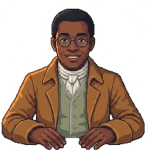
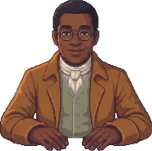
Cato gets a face, and a way to give everyone else one
Slices the returned sheet into the four expressions and wires them up. Three
things the sheet made necessary, kept in tools/slice-sheet.py so the next five
are one command:

Panels are found by looking for the gaps between them rather than dividing the
width by five — the returned panels are 802 to 853 wide, so an even division
would have cut through a shoulder. All five are then cropped with one shared
box, or the face would sit a few pixels higher in one mood than another and
the character would twitch every time the conversation turned.

Only the face is taken from each expression panel; the body always comes from
the neutral. Asked to change only a face, the generator redrew the coat, moved
the outline, and turned Cato's hair grey in the blink frame. Cutting a band
between the hairline and the collar — feathered at full resolution so the join
disappears in the downscale — takes the new brows, eyes and mouth and nothing
else. The grey hair simply never arrives.

The neutral is replaced by the sheet's own. Handed a template, the generator
draws a new figure rather than reproducing the old one, and the standalone
Cato differs from the sheet's by 16% of its pixels — keep it and his shoulders
change shape whenever his mood does.

Also preloads every face a character owns when they are first drawn. The
loader was lazy, so the first line that changed somebody's mood asked for an
image that had not begun downloading, and they flashed to the built-in figure
[…]

diff --git a/js/art.js b/js/art.js
@@ -1388,7 +1388,20 @@
     return out;
   }
 
+  /* Fetch every face a character owns the moment they are first drawn. The
+     loader is lazy, so without this the first line that changes their mood
+     asks for an image that hasn’t started downloading, and the character
+     flashes to the built-in figure for a frame or two while it arrives. */
+  var preloaded = {};
+  function preloadSprites(charId) {
+    if (!charId || preloaded[charId]) return;
+    preloaded[charId] = true;
+    var set = (global.SPRITES || {})[charId] || {};
+    Object.keys(set).forEach(function (k) { if (set[k]) getSprite(set[k]); });
+  }
+
   function drawPerson(cfg, exprName, f, charId) {
+    preloadSprites(charId);
     var m = motionOffsets(f, charId || 'anon', exprName);
 
     /* hand-made art wins, when there is any */

diff --git a/tools/slice-sheet.py b/tools/slice-sheet.py
@@ -1,0 +1,138 @@
+"""Slice a five-panel expression sheet into game-ready sprites.
+
+Three things matter, and none of them is obvious:
+
+  * Panels are found by looking for the empty columns between them, not by
+    dividing the width by five. Generators drift, and an even division puts a
+    slice line through somebody's shoulder.
+
+  * Every panel is cropped with the SAME box, worked out from the union of all
+    five. Cropping each to its own bounds looks tidier and is wrong: the face
+    would sit a few pixels higher in one mood than another and the character
+    would twitch every time the conversation turned.
+
+  * Only the FACE is taken from each expression panel. The body always comes
+    from the neutral. Asked to change a face, a generator will happily redraw
+    the coat, thicken the outline, or — as it did to Cato — turn a man's hair
+    grey in the blink frame. Cutting a band between the hairline and the collar
+    takes the new brows, eyes and mouth and nothing else, so the only thing
+    that can change is the only thing that should.
+
+The neutral is taken from the sheet as well, replacing any standalone one.
+That matters: a generator handed a template does not reproduce the original
+figure, it draws a new one, so the sheet's own neutral is the only body the
+other four panels agree with. Keep the old one and the character changes shape
+every time the conversation turns.
+
+Usage: slice.py <sheet.png> <char> <outdir> [x0 y0 x1 y1 as fractions]
+"""
+import sys, os
+from PIL import Image
+
+TARGET_H = 151
+NAMES = ['neutral', 'warm', 'worried', 'stern', 'blink']
+
+# The face band, as fractions of the trimmed figure. Default is tuned to Cato:
+# it starts below the hairline, stops above the collar, and stays inside the
+# edge of the head so both cuts land on flat skin rather than on an outline.
+BAND = (0.349, 0.152, 0.678, 0.384)
+
+
+def knockout(im, tol=26):
+    """Flood the white background in from the edges, leaving enclosed whites
+    (a linen cravat, a cap, the whites of eyes) alone."""
+    im = im.convert('RGBA')
+    w, h = im.size
+    px = im.load()
+    seen = bytearray(w * h)
+    stack = []
+    for x in range(w):
+        stack.append((x, 0)); stack.append((x, h - 1))
+    for y in range(h):
+        stack.append((0, y)); stack.append((w - 1, y))
+    while stack:
+        x, y = stack.pop()
+        if x < 0 or y < 0 or x >= w or y >= h: continue
+        i = y * w + x
+        if seen[i]: continue
+        r, g, b, _ = px[x, y]
+        if (255 - r) + (255 - g) + (255 - b) > tol * 3: continue
+        seen[i] = 1
+        px[x, y] = (0, 0, 0, 0)
+        stack.append((x + 1, y)); stack.append((x - 1, y))
+        stack.append((x, y + 1)); stack.append((x, y - 1))
+    return im
+
+
+def panels(im):
+    w, h = im.size
+    px = im.load()
+    cols = []
+    for x in range(w):
+        hit = False
+        for y in range(0, h, 3):
+            if px[x, y][3] > 24: hit = True; break
+        cols.append(hit)
+    runs, start = [], None
+    for x, on in enumerate(cols):
+        if on and start is None: start = x
+        elif not on and start is not None:
+            if x - start > w // 40: runs.append((start, x))
+            start = None
+    if start is not None: runs.append((start, w))
+    return runs
+
+
+def band_mask(size, feather=12):
+    """A hard cut across a cheek leaves a visible line. This ramps the join
+    over a few pixels — done at full resolution, so after the downscale to
+    151 tall the blend is under two pixels wide and reads as nothing at all."""
+    w, h = size
+    m = Image.new('L', size, 255)
+    px = m.load()
+    for x in range(w):
+        for y in range(h):
+            d = min(x, w - 1 - x, y, h - 1 - y)
+            if d < feather: px[x, y] = round(255 * d / feather)
+    return m
+
+
+def main(path, char, outdir, band=BAND):
+    im = knockout(Image.open(path))
+    runs = panels(im)
+    print('found %d panels: %s' % (len(runs), runs))
+    if len(runs) != 5:
+        print('!! expected 5 — stopping so nothing is written wrong'); return 1
+
+    boxes = []
+    for (x0, x1) in runs:
+        sub = im.crop((x0, 0, x1, im.size[1]))
+        boxes.append(sub.getchannel('A').getbbox())
+    L = min(b[0] for b in boxes); T = min(b[1] for b in boxes)
+    R = max(b[2] for b in boxes); Bm = max(b[3] for b in boxes)
+    print('shared crop box', (L, T, R, Bm))
+
+    cut = [im.crop((x0, 0, x1, im.size[1])).crop((L, T, R, Bm)) for (x0, x1) in runs]
+    fw, fh = cut[0].size
+    fx0, fy0 = round(band[0] * fw), round(band[1] * fh)
+    fx1, fy1 = round(band[2] * fw), round(band[3] * fh)
+    print('face band %s of %s' % ((fx0, fy0, fx1, fy1), (fw, fh)))
+
+    w = max(1, round(fw * TARGET_H / fh))
+    for i, panel in enumerate(cut):
+        if i == 0:
+            out = panel
+            name = '%s-neutral.png' % char
+        else:
+            out = cut[0].copy()                       # the body is always the neutral's
+            face = panel.crop((fx0, fy0, fx1, fy1))
+            out.paste(face, (fx0, fy0), band_mask(face.size))
+            name = '%s-%s.png' % (char, NAMES[i])
+        out.resize((w, TARGET_H), Image.Resampling.BOX).save(os.path.join(outdir, name))
+        print('  wrote', name)
+    return 0
+
+
+if __name__ == '__main__':
+    b = tuple(float(v) for v in sys.argv[4:8]) if len(sys.argv) >= 8 else BAND
+    sys.exit(main(sys.argv[1], sys.argv[2], sys.argv[3], b))
